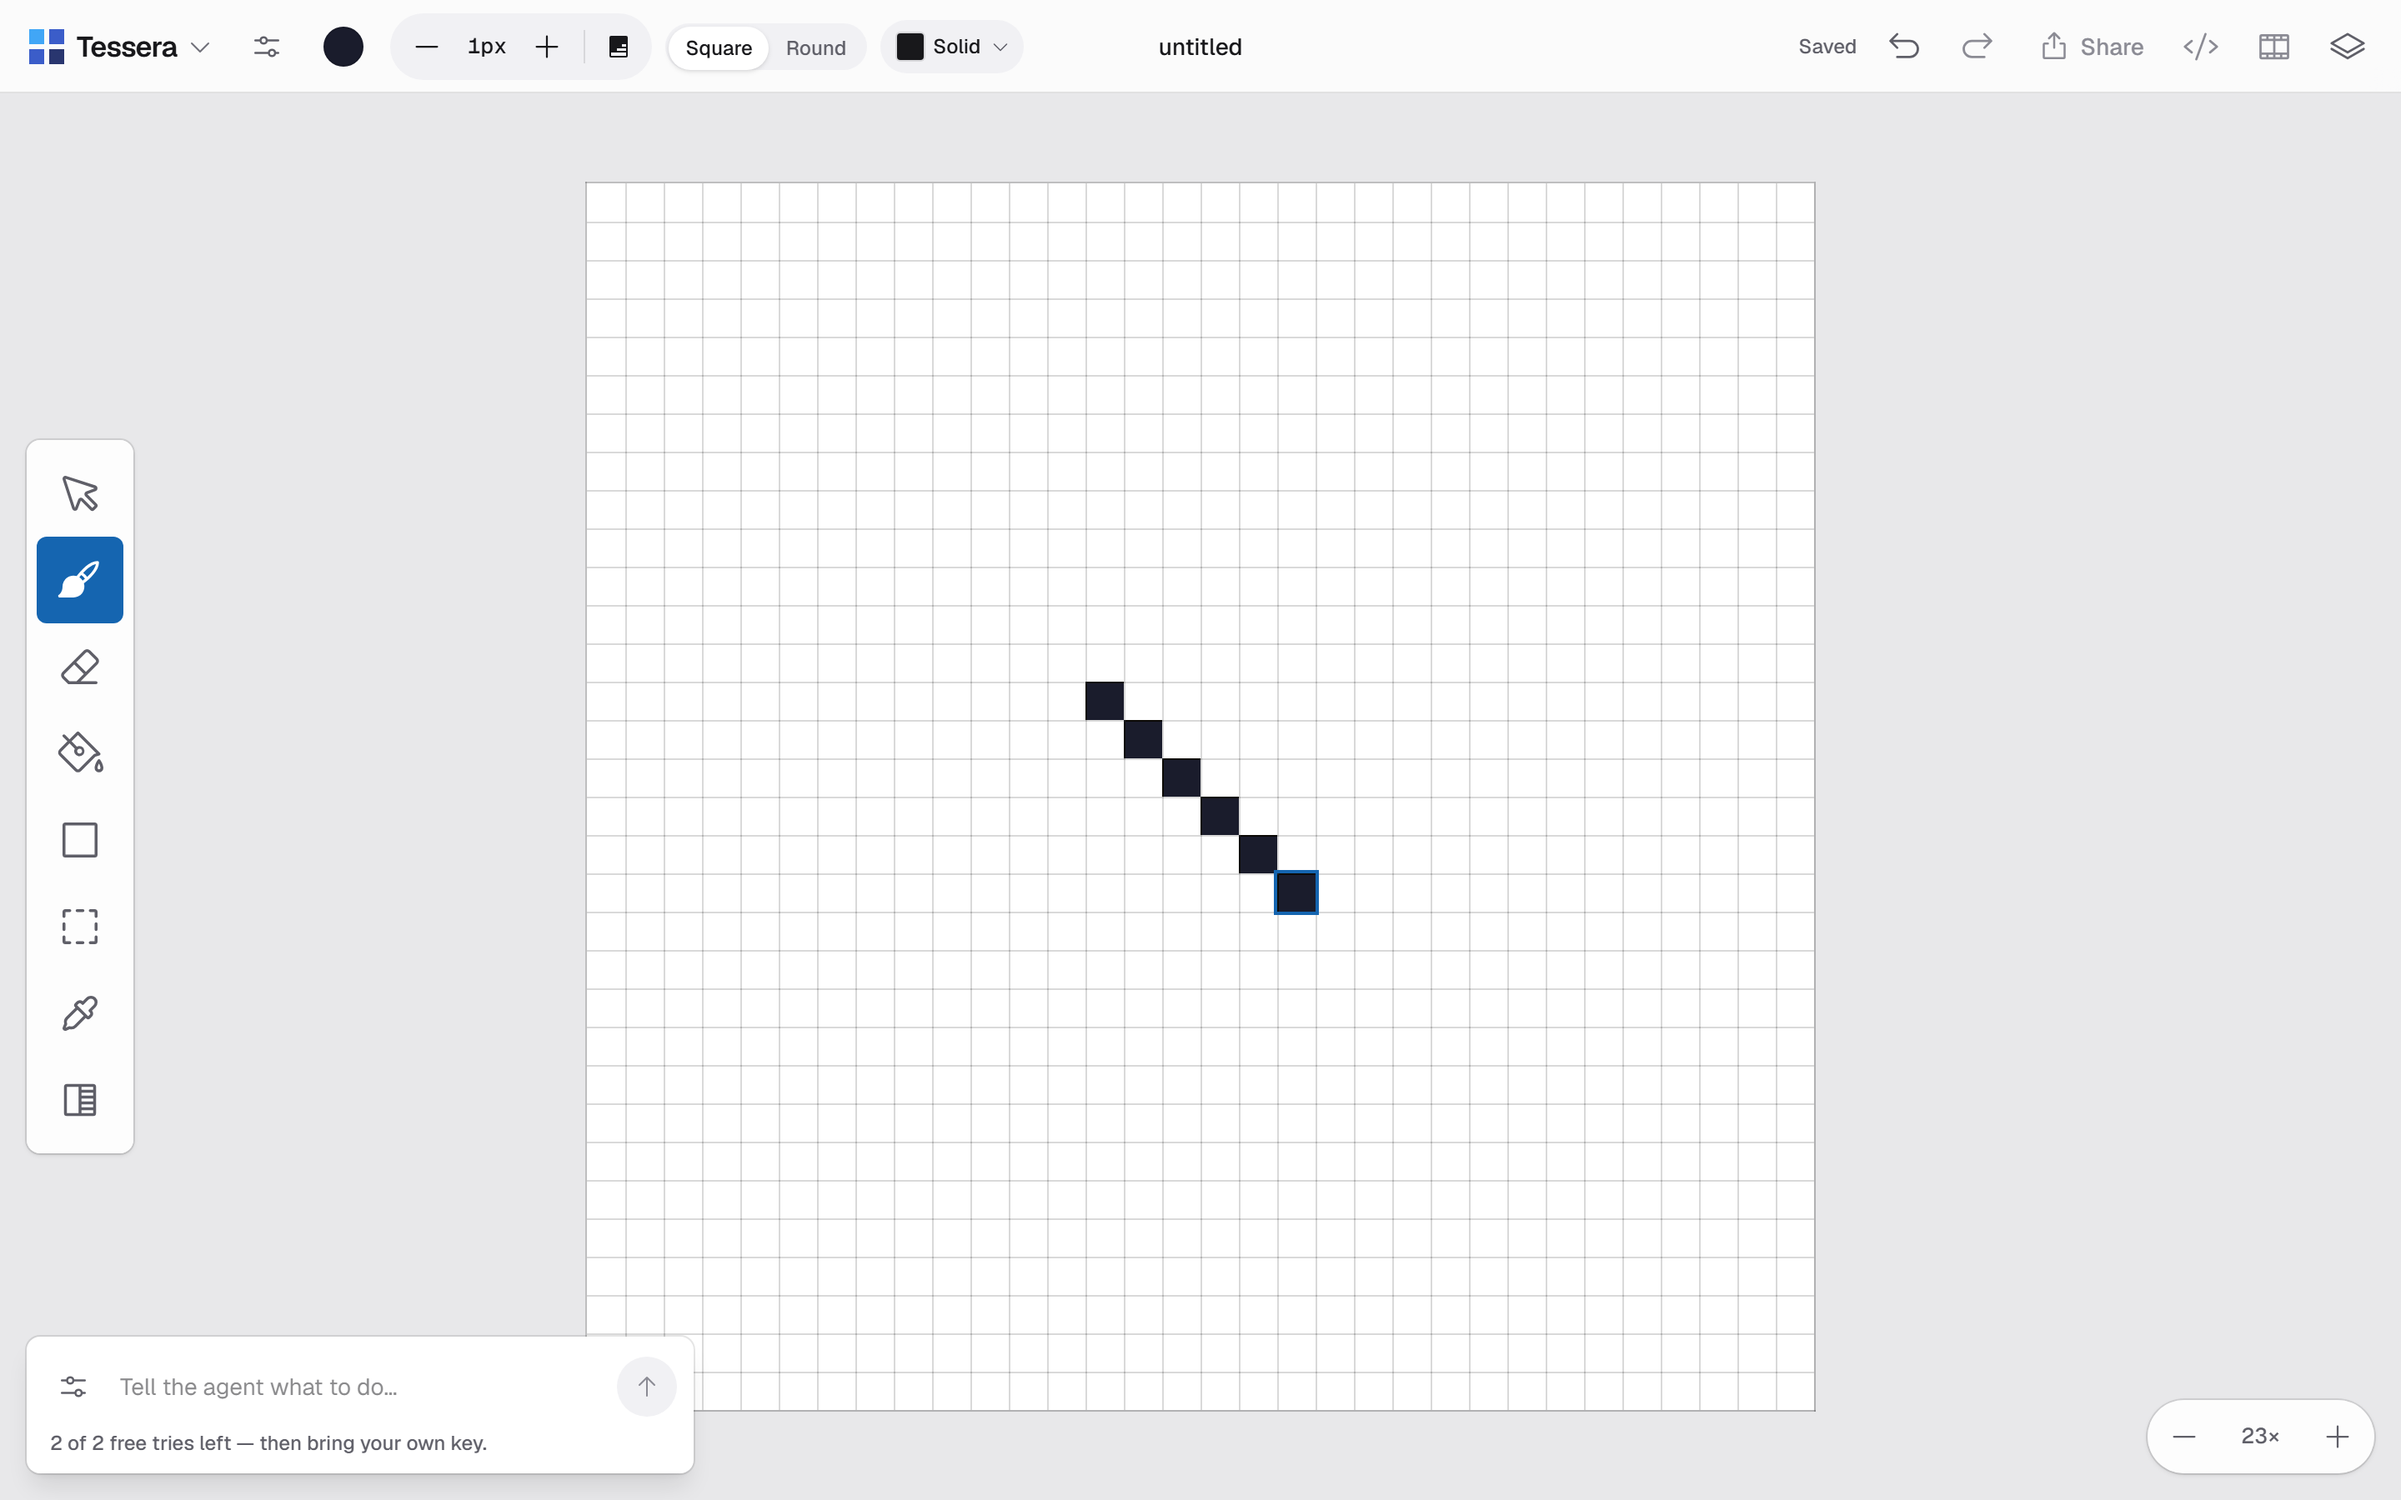
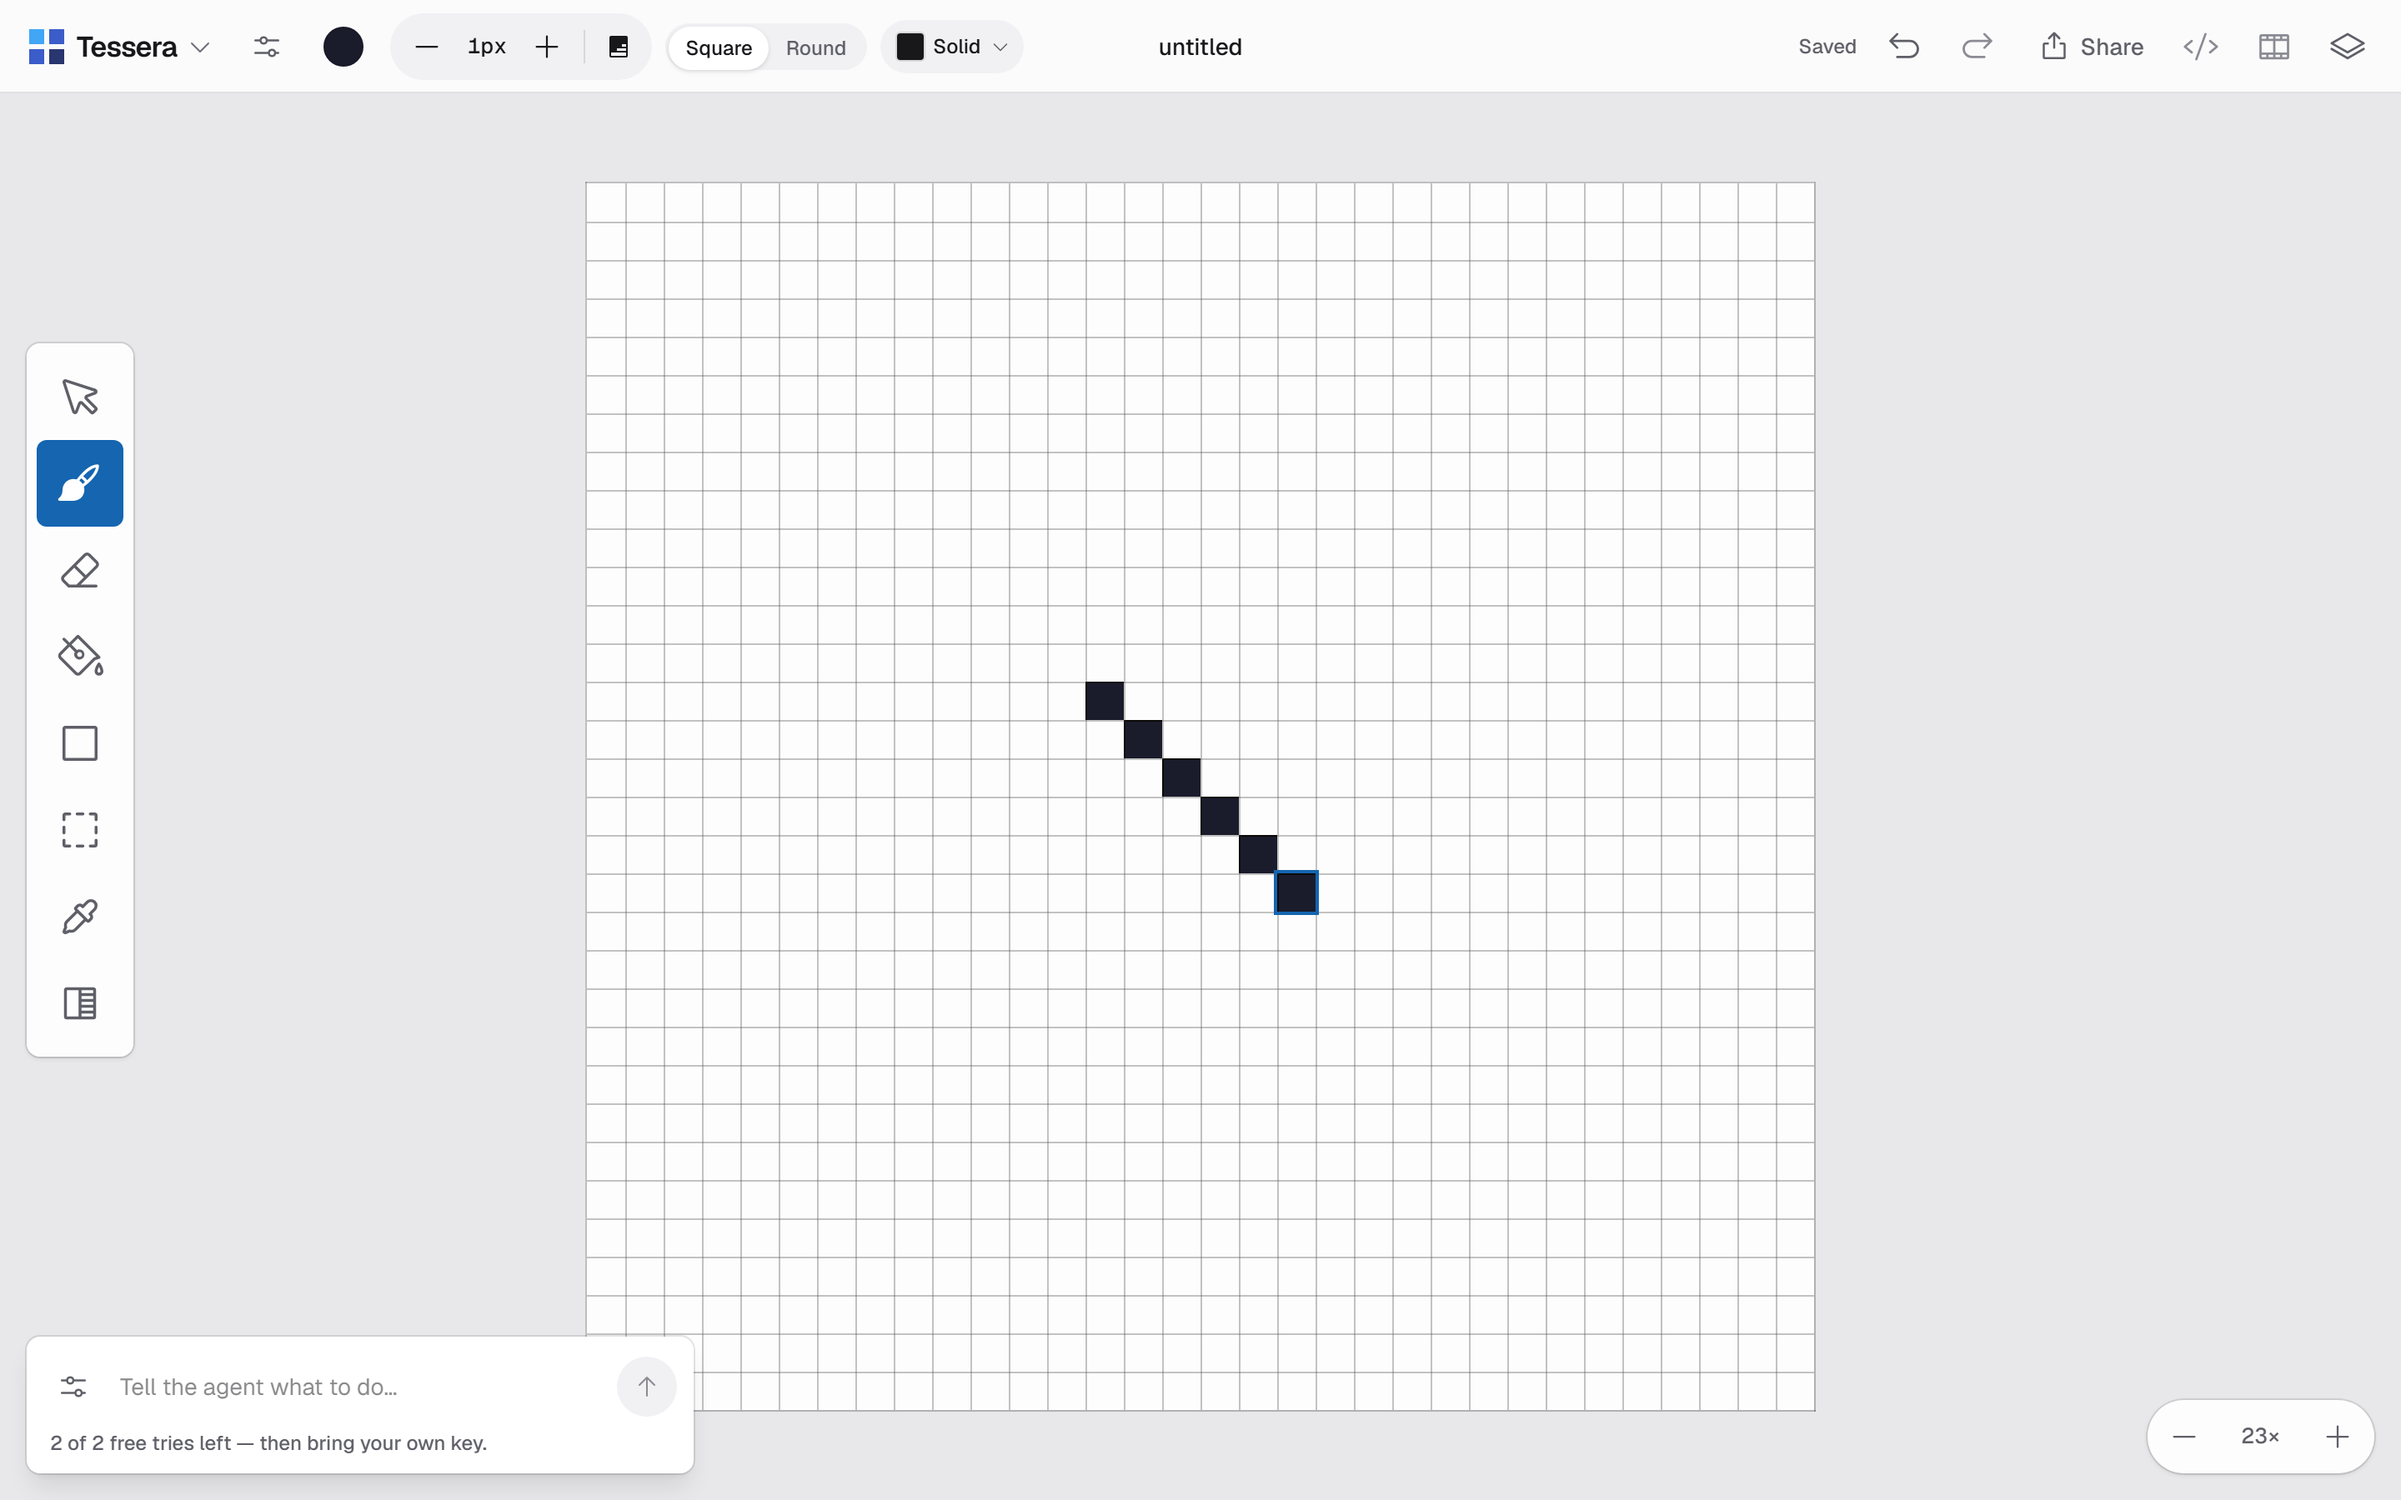
Add a bird starter, and a way to look at starters before shipping them
Two examples now instead of one, so File > Example is a choice rather than a
single button that loads the same face every time.

The bird is built from ellipses and an outline pass rather than hand-typed ASCII
rows, because the first hand-typed attempt parsed cleanly and rendered as a blue
blob with a floating beak and an eye the size of its head. That is the failure
mode of pixel art written as text: the rows look plausible and the render does
not. tools/render-starters.ts exists so that adding one ends with looking at it,
and it caught two more problems after that — a silhouette running off both
edges, so neither the tail nor the beak got an outline, and a single stray pixel
poking out of the tail that read as damage rather than as feathers. There is an
assertion now that no starter touches the frame.

Changed region(s): [[0.0, 0.28, 0.0625, 0.4667], [0.0312, 0.7156, 0.0625, 0.7467], [0.0312, 0.6533, 0.0625, 0.6844]]

diff --git a/tools/render-starters.ts b/tools/render-starters.ts
@@ -1,0 +1,55 @@
+/**
+ * Render every starter to one PNG so they can be LOOKED at.
+ *
+ *   npx tsx tools/render-starters.ts
+ *
+ * A starter that parses is not the same as a starter that looks like the thing
+ * it is named after, and 16x16 pixel art written as ASCII rows reads nothing
+ * like it renders. This exists so adding one ends with looking at it.
+ */
+
+import { writeFileSync, mkdirSync } from 'node:fs'
+import { join } from 'node:path'
+import { chromium } from 'playwright'
+import { listStarters, loadStarter } from '../lib/artwork-core/create'
+import { spriteToSvg } from '../lib/renderer/sprite-svg'
+
+const OUT = join(process.cwd(), 'docs', 'shots')
+
+async function main() {
+  mkdirSync(OUT, { recursive: true })
+
+  const cards = listStarters()
+    .map((n) => {
+      const doc = loadStarter(n)
+      const svg = spriteToSvg(doc, 0).replace(
+        '<svg ',
+        '<svg width="256" height="256" style="image-rendering:pixelated;background:#1b1b1e;border-radius:6px" ',
+      )
+      return `<figure style="margin:0;text-align:center;font:13px system-ui;color:#ddd">
+        ${svg}
+        <figcaption style="margin-top:8px">${n} — ${doc.w}×${doc.h}, ${doc.palette.length} colours</figcaption>
+      </figure>`
+    })
+    .join('')
+
+  const b = await chromium.launch()
+  const p = await b.newPage({ viewport: { width: 700, height: 340 }, deviceScaleFactor: 2 })
+  await p.setContent(
+    `<body style="margin:0;background:#0b0b0d;display:flex;gap:28px;padding:28px;align-items:center;justify-content:center">${cards}</body>`,
+  )
+  await p.screenshot({ path: join(OUT, 'starters.png') })
+  await b.close()
+
+  // Also dump the rows, which is what a reviewer actually edits.
+  for (const n of listStarters()) {
+    const doc = loadStarter(n)
+    console.log(`\n── ${n} (${doc.w}×${doc.h}) ──`)
+  }
+  console.log(`\nwritten ${join('docs', 'shots', 'starters.png')}`)
+}
+
+main().catch((e) => {
+  console.error(e)
+  process.exit(1)
+})

diff --git a/lib/artwork-core/create.ts b/lib/artwork-core/create.ts
@@ -8,6 +8,7 @@
 import { parseDoc } from './codec'
 import { FORMAT_VERSION, type Doc, type PaletteEntry } from './schema'
 import faceJson from './fixtures/starters/face.tessera.json'
+import birdJson from './fixtures/starters/bird.tessera.json'
 import logoJson from './fixtures/logo.tessera.json'
 
 /** Transparent plus a compact ramp that is immediately usable for drawing. */
@@ -53,10 +54,11 @@ export function createDoc(opts: {
   }
 }
 
-export type StarterName = 'face'
+export type StarterName = 'face' | 'bird'
 
 const STARTERS: Record<StarterName, unknown> = {
   face: faceJson,
+  bird: birdJson,
 }
 
 /**
